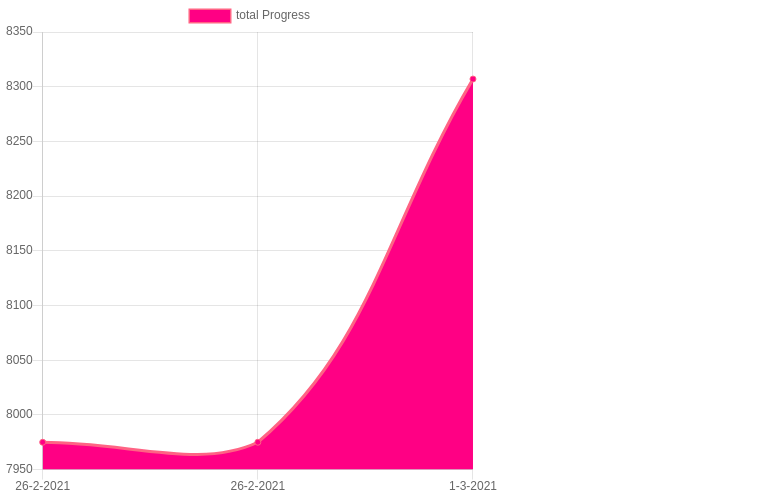
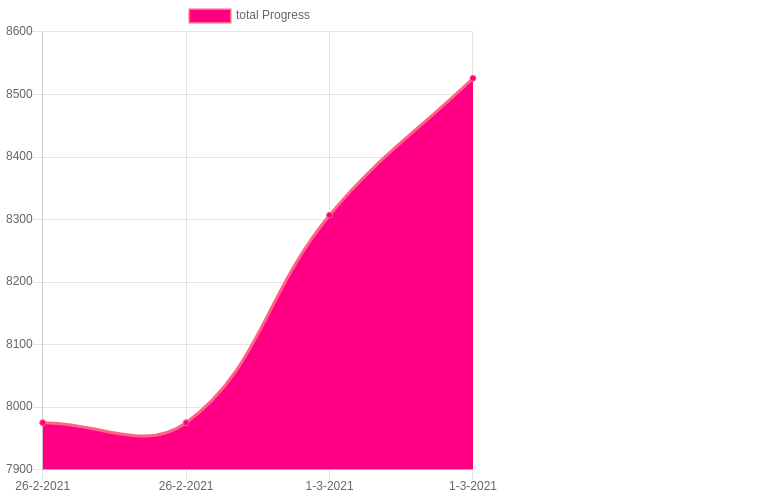
golang goroutines and foreach

diff --git a/total.html b/total.html
@@ -9,7 +9,7 @@
         <script src="https://cdn.jsdelivr.net/npm/chart.js@2.8.0"></script>
         <script>
           var ctx = document.getElementById("total").getContext("2d");
-          const goLabelsDates = ["2021-02-27T01:37:43.112Z","2021-02-27T01:38:01.628Z","2021-03-01T13:41:18.753Z",];
+          const goLabelsDates = ["2021-02-27T01:37:43.112Z","2021-02-27T01:38:01.628Z","2021-03-01T13:41:18.753Z","2021-03-01T14:53:41.991Z",];
           var chart = new Chart(ctx, {
             type: 'line',
             data: {
@@ -18,7 +18,7 @@
                 label: 'total Progress',
                 backgroundColor: 'rgb(255, 0, 132)',
                 borderColor: 'rgb(255, 99, 132)',
-                data: [7975,7975,8307,]
+                data: [7975,7975,8307,8526,]
               }]
             },
           });

diff --git a/go.html b/go.html
@@ -9,7 +9,7 @@
         <script src="https://cdn.jsdelivr.net/npm/chart.js@2.8.0"></script>
         <script>
           var ctx = document.getElementById("go").getContext("2d");
-          const goLabelsDates = ["2021-02-27T01:37:43.111Z","2021-02-27T01:38:01.627Z",];
+          const goLabelsDates = ["2021-02-27T01:37:43.111Z","2021-02-27T01:38:01.627Z","2021-03-01T14:53:41.990Z",];
           var chart = new Chart(ctx, {
             type: 'line',
             data: {
@@ -18,7 +18,7 @@
                 label: 'go Progress',
                 backgroundColor: 'rgb(255, 0, 132)',
                 borderColor: 'rgb(255, 99, 132)',
-                data: [1982,1982,]
+                data: [1982,1982,2201,]
               }]
             },
           });

diff --git a/Readme.md b/Readme.md
@@ -278,3 +278,43 @@ node ./count.js
 * Spring, Play
 * Scala, Java
 , 2021-03-01T13:41:18.753Z
+# All count
+|Language|Lines|%|%|
+|----------|-------|--------|--------|
+|go|2201|110|110|
+|js|1822|91|91|
+|python|1149|57|57|
+|scala|975|49|49|
+|ts|829|41|41|
+|ruby|810|41|41|
+|java|731|37|37|
+|sql|9|0|0|
+|dotnet|0|0|0|
+|words|0|0|0|
+|TOTAL|8526|852.600%|
+10/02(0)
+
+10/03(8526)
+
+
+# run it
+node ./count.js
+    
+# Enforce
+* Algorithms
+* Code writing velocity
+
+# Activities
+* Write source code related to any topic
+* Comment the understanding part of it
+    
+# Purposes
+* Reach to 100 lines daily
+* 2000 lines of source code monthly
+* 20 commits more
+
+# Technologies
+* Angular, React, Vue
+* Spring, Play
+* Scala, Java
+, 2021-03-01T14:53:41.991Z
